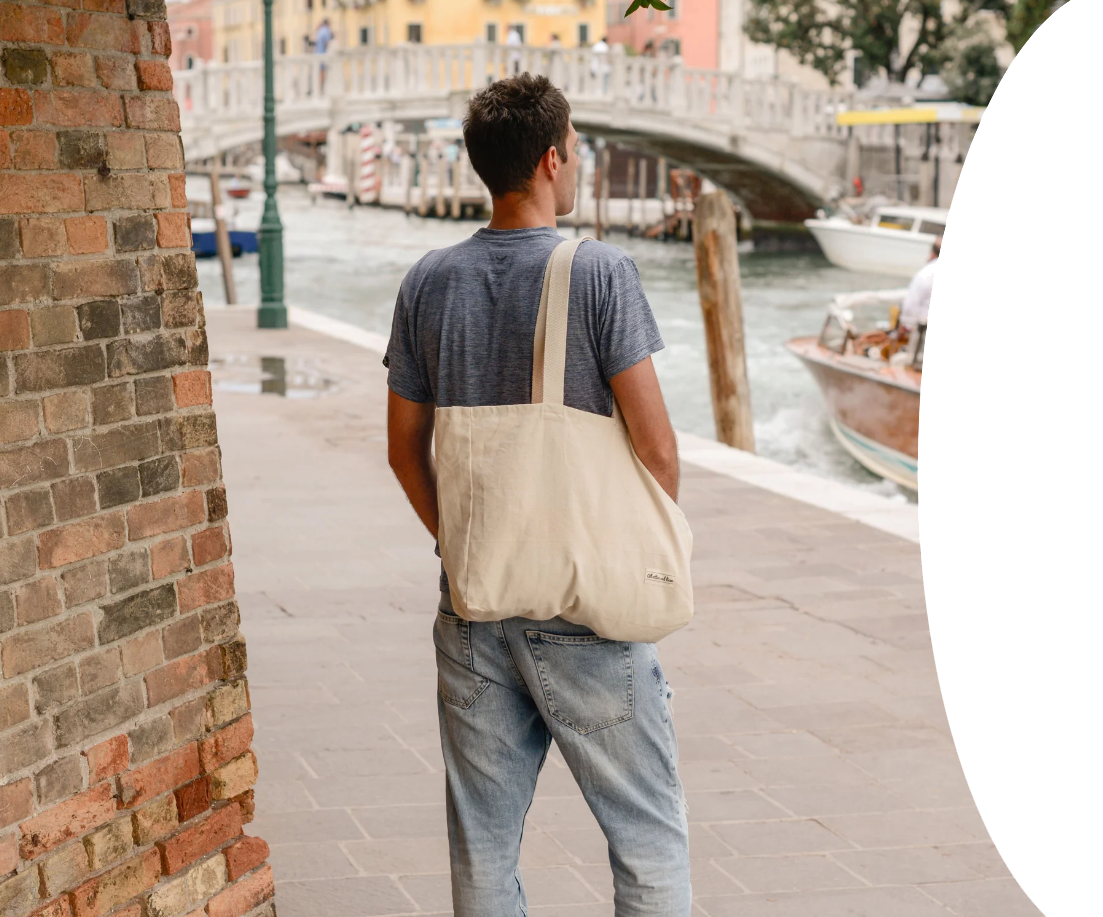
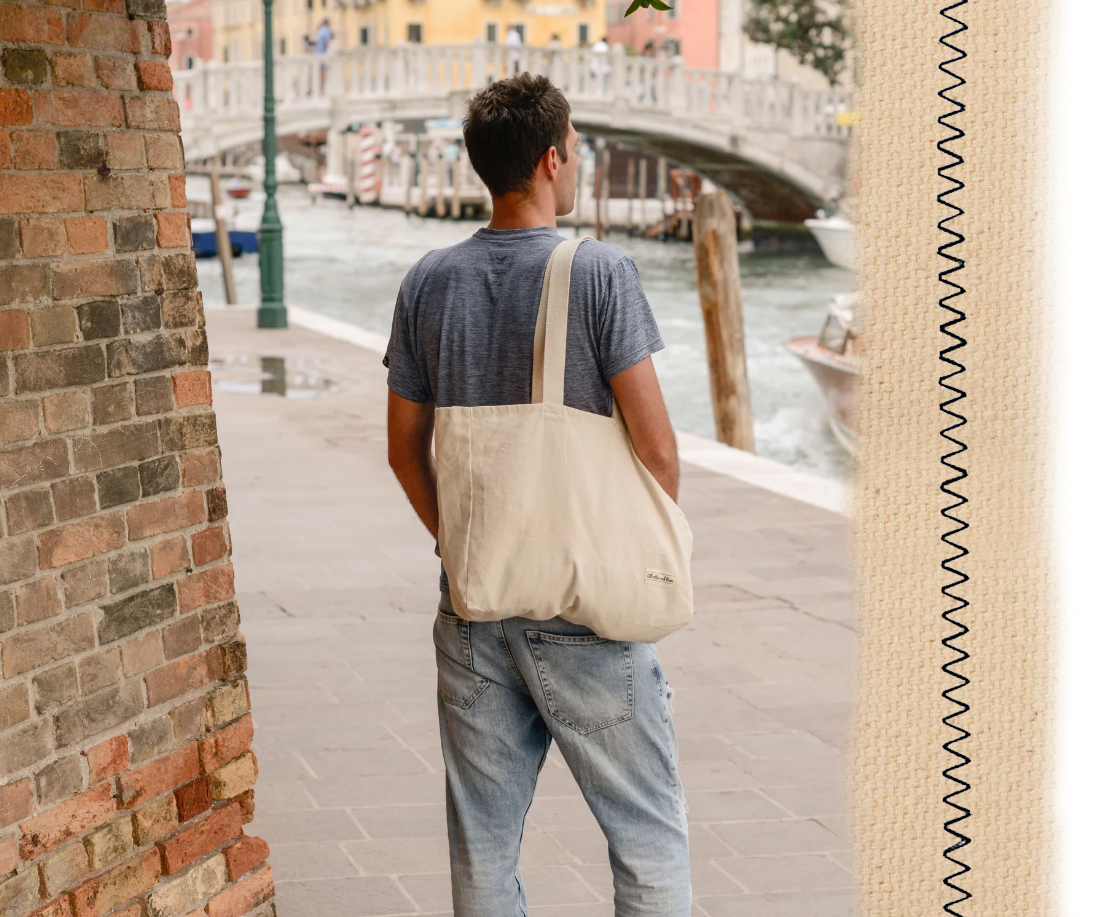
update

Changed region(s): [[0.7398, 0.0, 0.9864, 1.0]]

diff --git a/heros.html b/heros.html
@@ -187,6 +187,30 @@
                         </div>
                     </div>
                 </div>
+                <div class="row mt-10">
+<textarea class="row bg-green-2 radius-5" wrap="off" rows="20">
+    <div class="row flex-container radius-5 bg-yellow-1">
+        <div class="col-5">
+            <img src="image path" class="image">
+        </div>
+        <div class="col-7 flex-container">
+            <div class="row fs-m bg-white-3 vertical-align-bottom p-20 mt-20">
+                <i>A MEN'S BEST FRIEND</i>
+            </div>
+            <div class="row fs-xxs p-20">
+                Luxury in every stitch, elegance in every fold. Natural and healthy
+            </div>
+            <div class="row fs-s mt-20 p-20">
+                Canvas Bag Collection in 2024
+            </div>
+            <div class="row fs-s p-20">
+                <button class="btn-dark p-5 fs-xs radius-5 col-2 vh-5 bg-white-3 border-white-3">More</button>
+            </div>
+        </div>
+    </div>
+</textarea>
+                </div>
+                <hr>
             </div>
         </div>
         <!-- CONTENT -->
